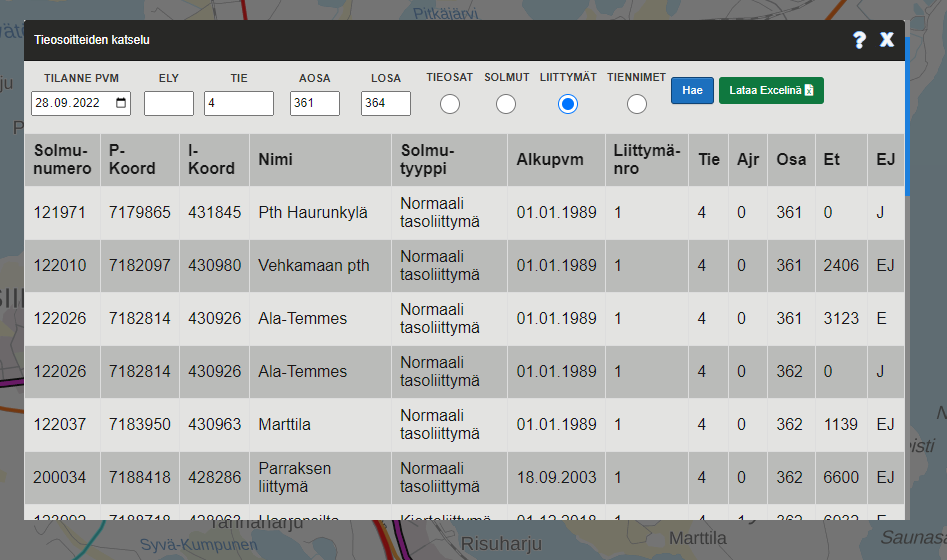
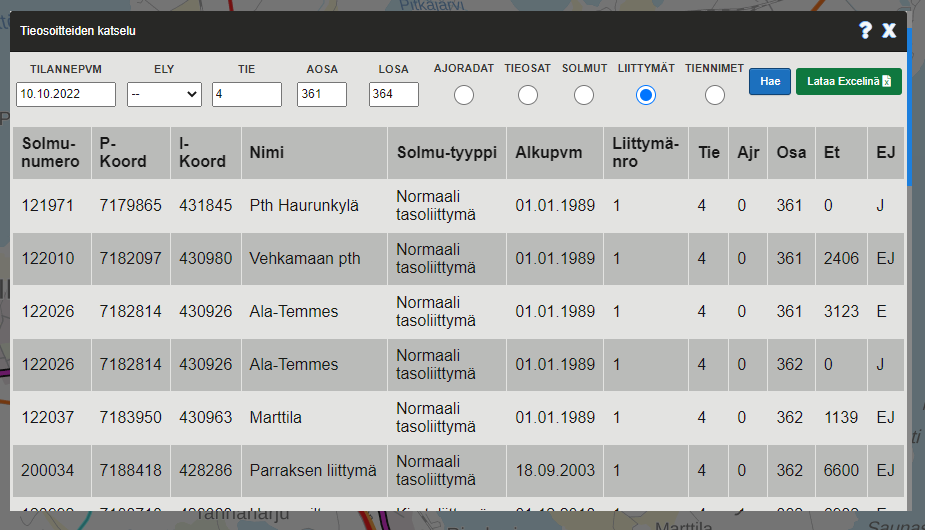
VIITE-2857 update manual for road address browser

diff --git a/viite-UI/manual/index.md b/viite-UI/manual/index.md
@@ -920,40 +920,44 @@ Syötettävistä hakuehdoista Tilanne pvm sekä Ely TAI Tie on pakollinen tieto.
 (5) Losa: Suurin tieosanumero jolta haettavia kohteita haetaan
 
 ####  Haettava kohde
-(6) Tieosat: Hakee annettujen hakuehtojen mukaiset tieosat   
-(7) Solmut: Hakee annettujen hakuehtojen mukaiset solmut   
-(8) Liittymät: Hakee annettujen hakuehtojen mukaiset liittymät   
-(9) Tiennimet: Hakee annettujen hakuehtojen mukaiset tiennimet
+(6) Ajoradat: Hakee annettujen hakuehtojen mukaiset ajoradat  
+(7) Tieosat: Hakee annettujen hakuehtojen mukaiset tieosat   
+(8) Solmut: Hakee annettujen hakuehtojen mukaiset solmut   
+(9) Liittymät: Hakee annettujen hakuehtojen mukaiset liittymät   
+(10) Tiennimet: Hakee annettujen hakuehtojen mukaiset tiennimet
 
 
-Huom! Haku saattaa kestää useita kymmeniä sekunteja haettaessa pelkästään tilannepäivämäärällä ja elyllä (Viite hakee valitut kohteet koko elyn alueelta)
+Huom! Haku saattaa kestää useita sekunteja haettaessa pelkästään tilannepäivämäärällä ja elyllä (Viite hakee valitut kohteet koko elyn alueelta)
 
 Viite palauttaa hakuehtojen perusteella listan kohteita sekä näiden ominaisuustiedot. 
 
-Hakutulokset on mahdollista ladata Excel-taulukkona klikkaamalla "Lataa Excelinä" -painiketta
+Hakutulokset on mahdollista ladata Excel-taulukkona klikkaamalla "Lataa Excelinä" -painiketta.
 
 Jos hakutulos on liian suuri (>100 riviä) tarjoaa Viite pelkän Excel-latausmahdollisuuden.
 
 10.1 Esimerkkejä eri ominaisuustietojen hakutuloksista:
 --------------------------
 
+![Ajoradat -hakutulos](k80.PNG)
+
+_Kuva 10.3: Ajoradat -hakutulos_
 
 ![Tieosat -hakutulos](k75.PNG)
 
-_Kuva 10.3: Tieosat -hakutulos_
+_Kuva 10.4: Tieosat -hakutulos_
 
 ![Solmut -hakutulos](k76.PNG)
 
-_Kuva 10.4: Solmut -hakutulos_
+_Kuva 10.5: Solmut -hakutulos_
 
 ![Liittymät -hakutulos](k77.PNG)
 
-_Kuva 10.5: Liittymät -hakutulos_
+_Kuva 10.6: Liittymät -hakutulos_
 
 ![Tiennimet -hakutulos](k78.PNG)
 
-_Kuva 10.6: Tiennimet -hakutulos_
+_Kuva 10.7: Tiennimet -hakutulos_
 
 ![Excel -hakutulos](k79.PNG)
 
-_Kuva 10.7: Viite tarjoaa pelkän Excel-tiedoston latausmahdollisuuden mikäli hakutulos on liian suuri_
+_Kuva 10.8: Viite tarjoaa pelkän Excel-tiedoston latausmahdollisuuden mikäli hakutulos on liian suuri_
